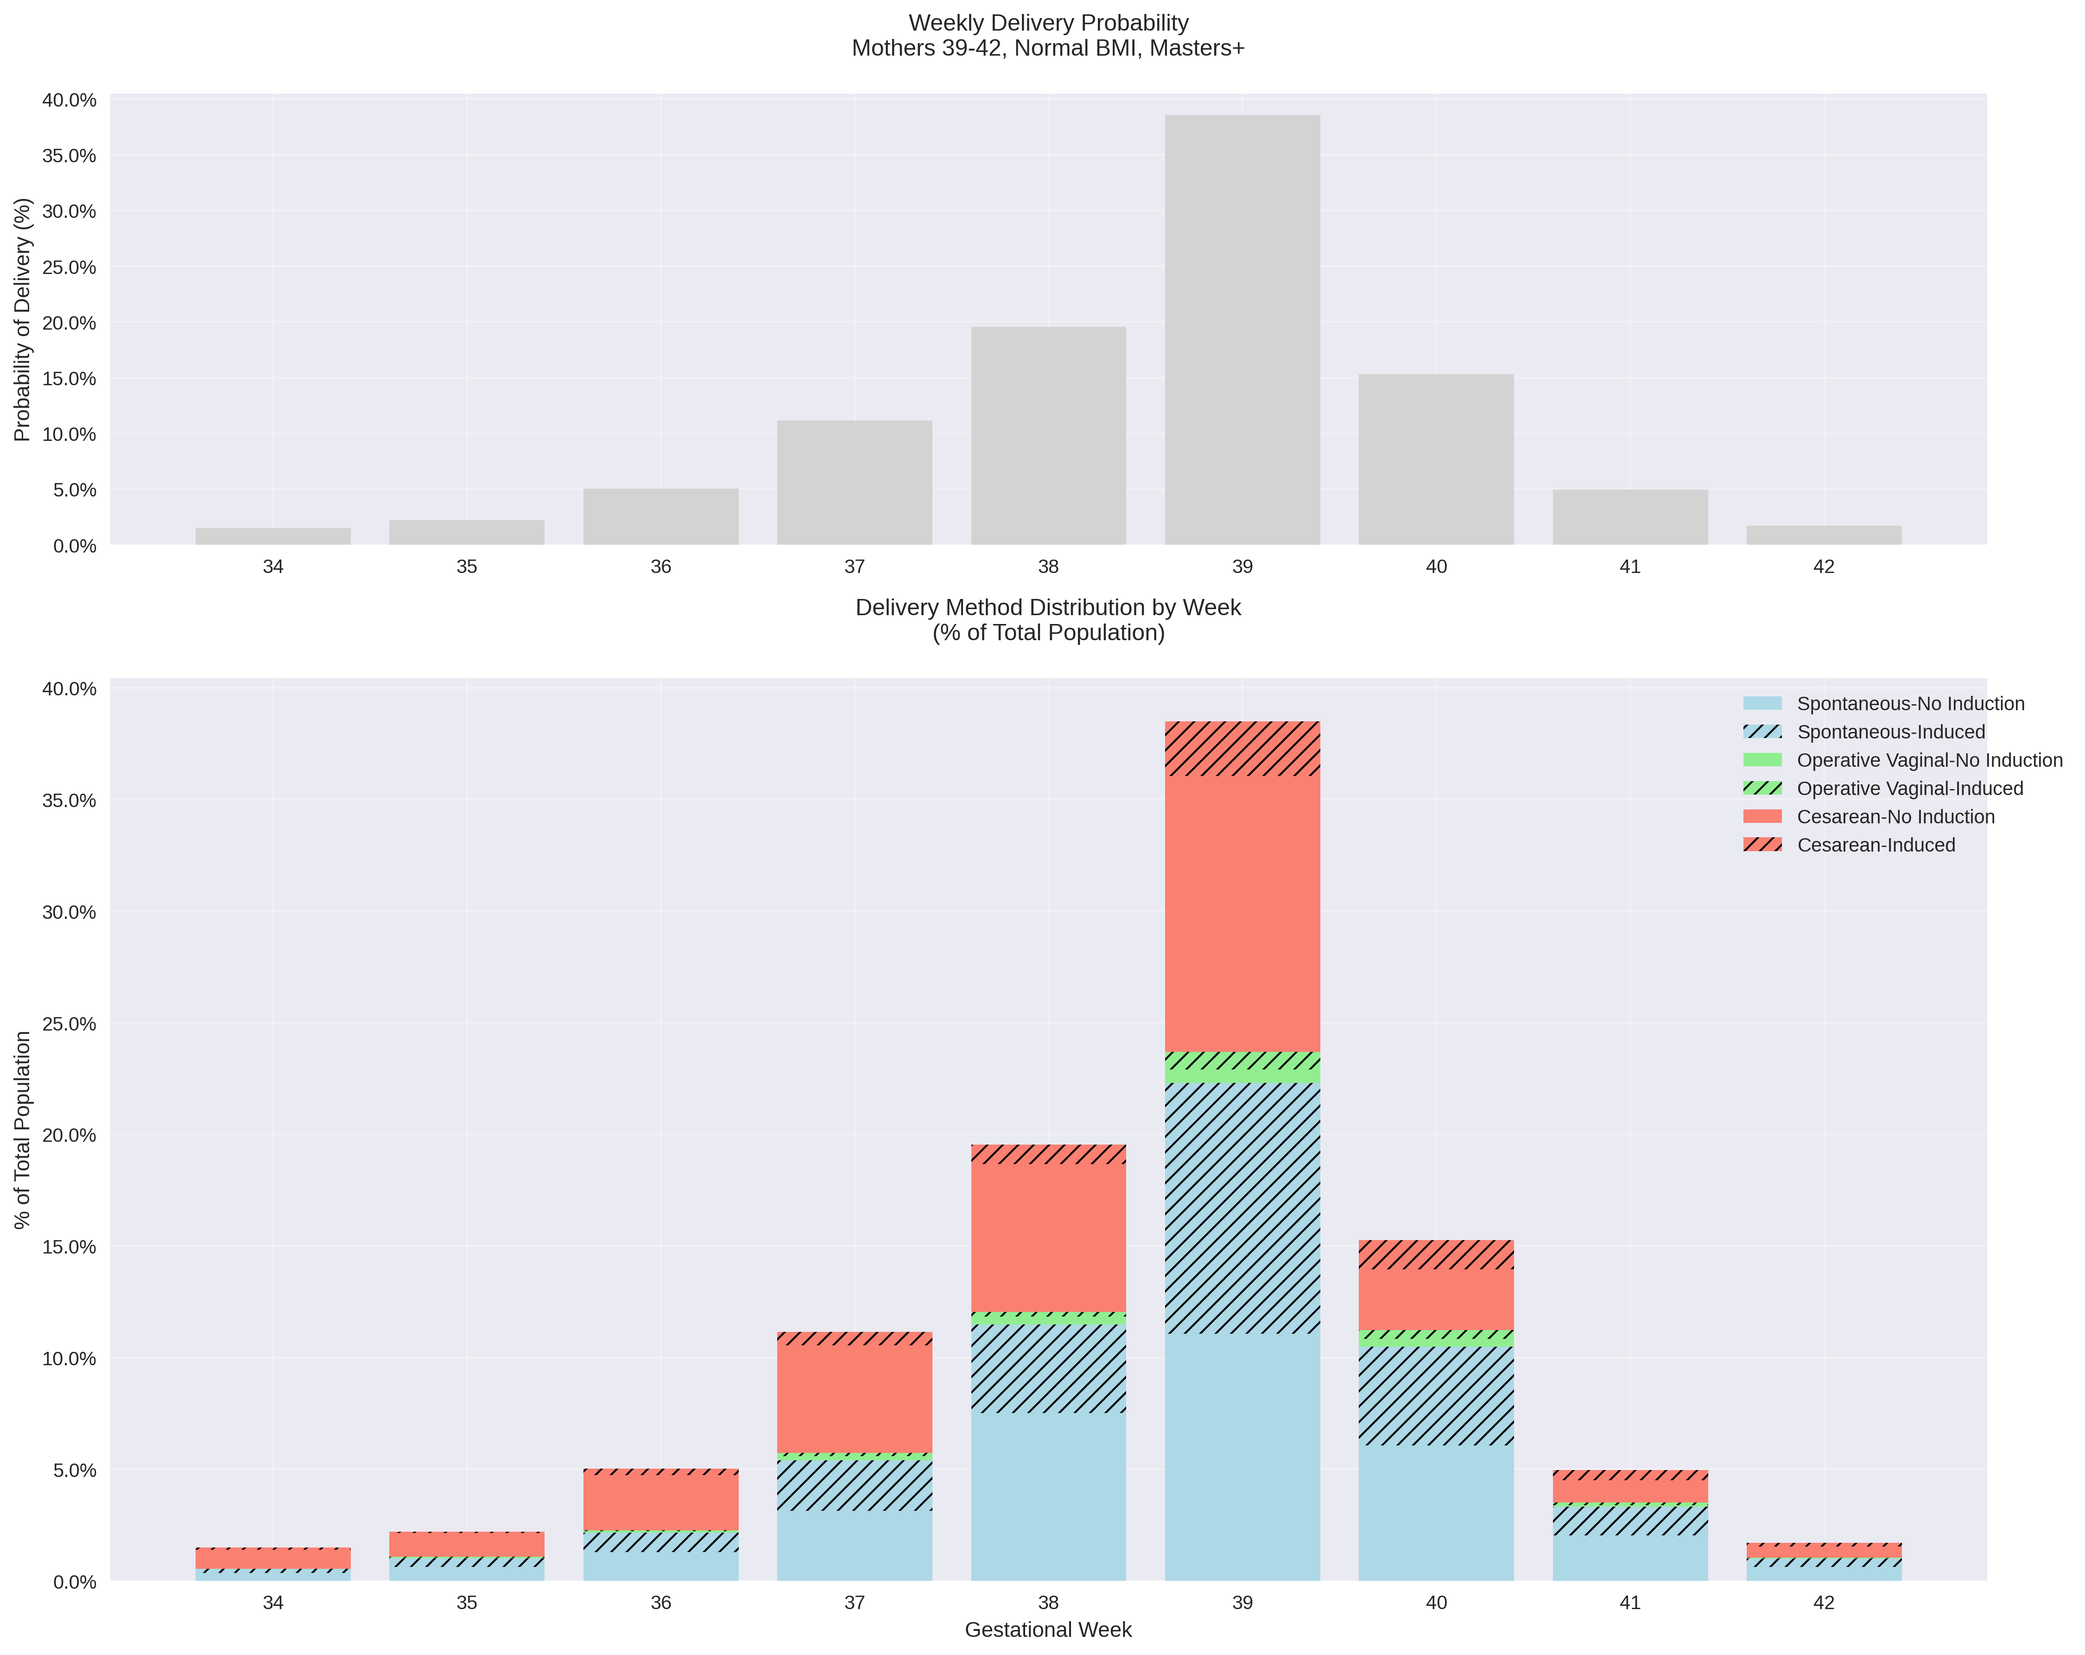
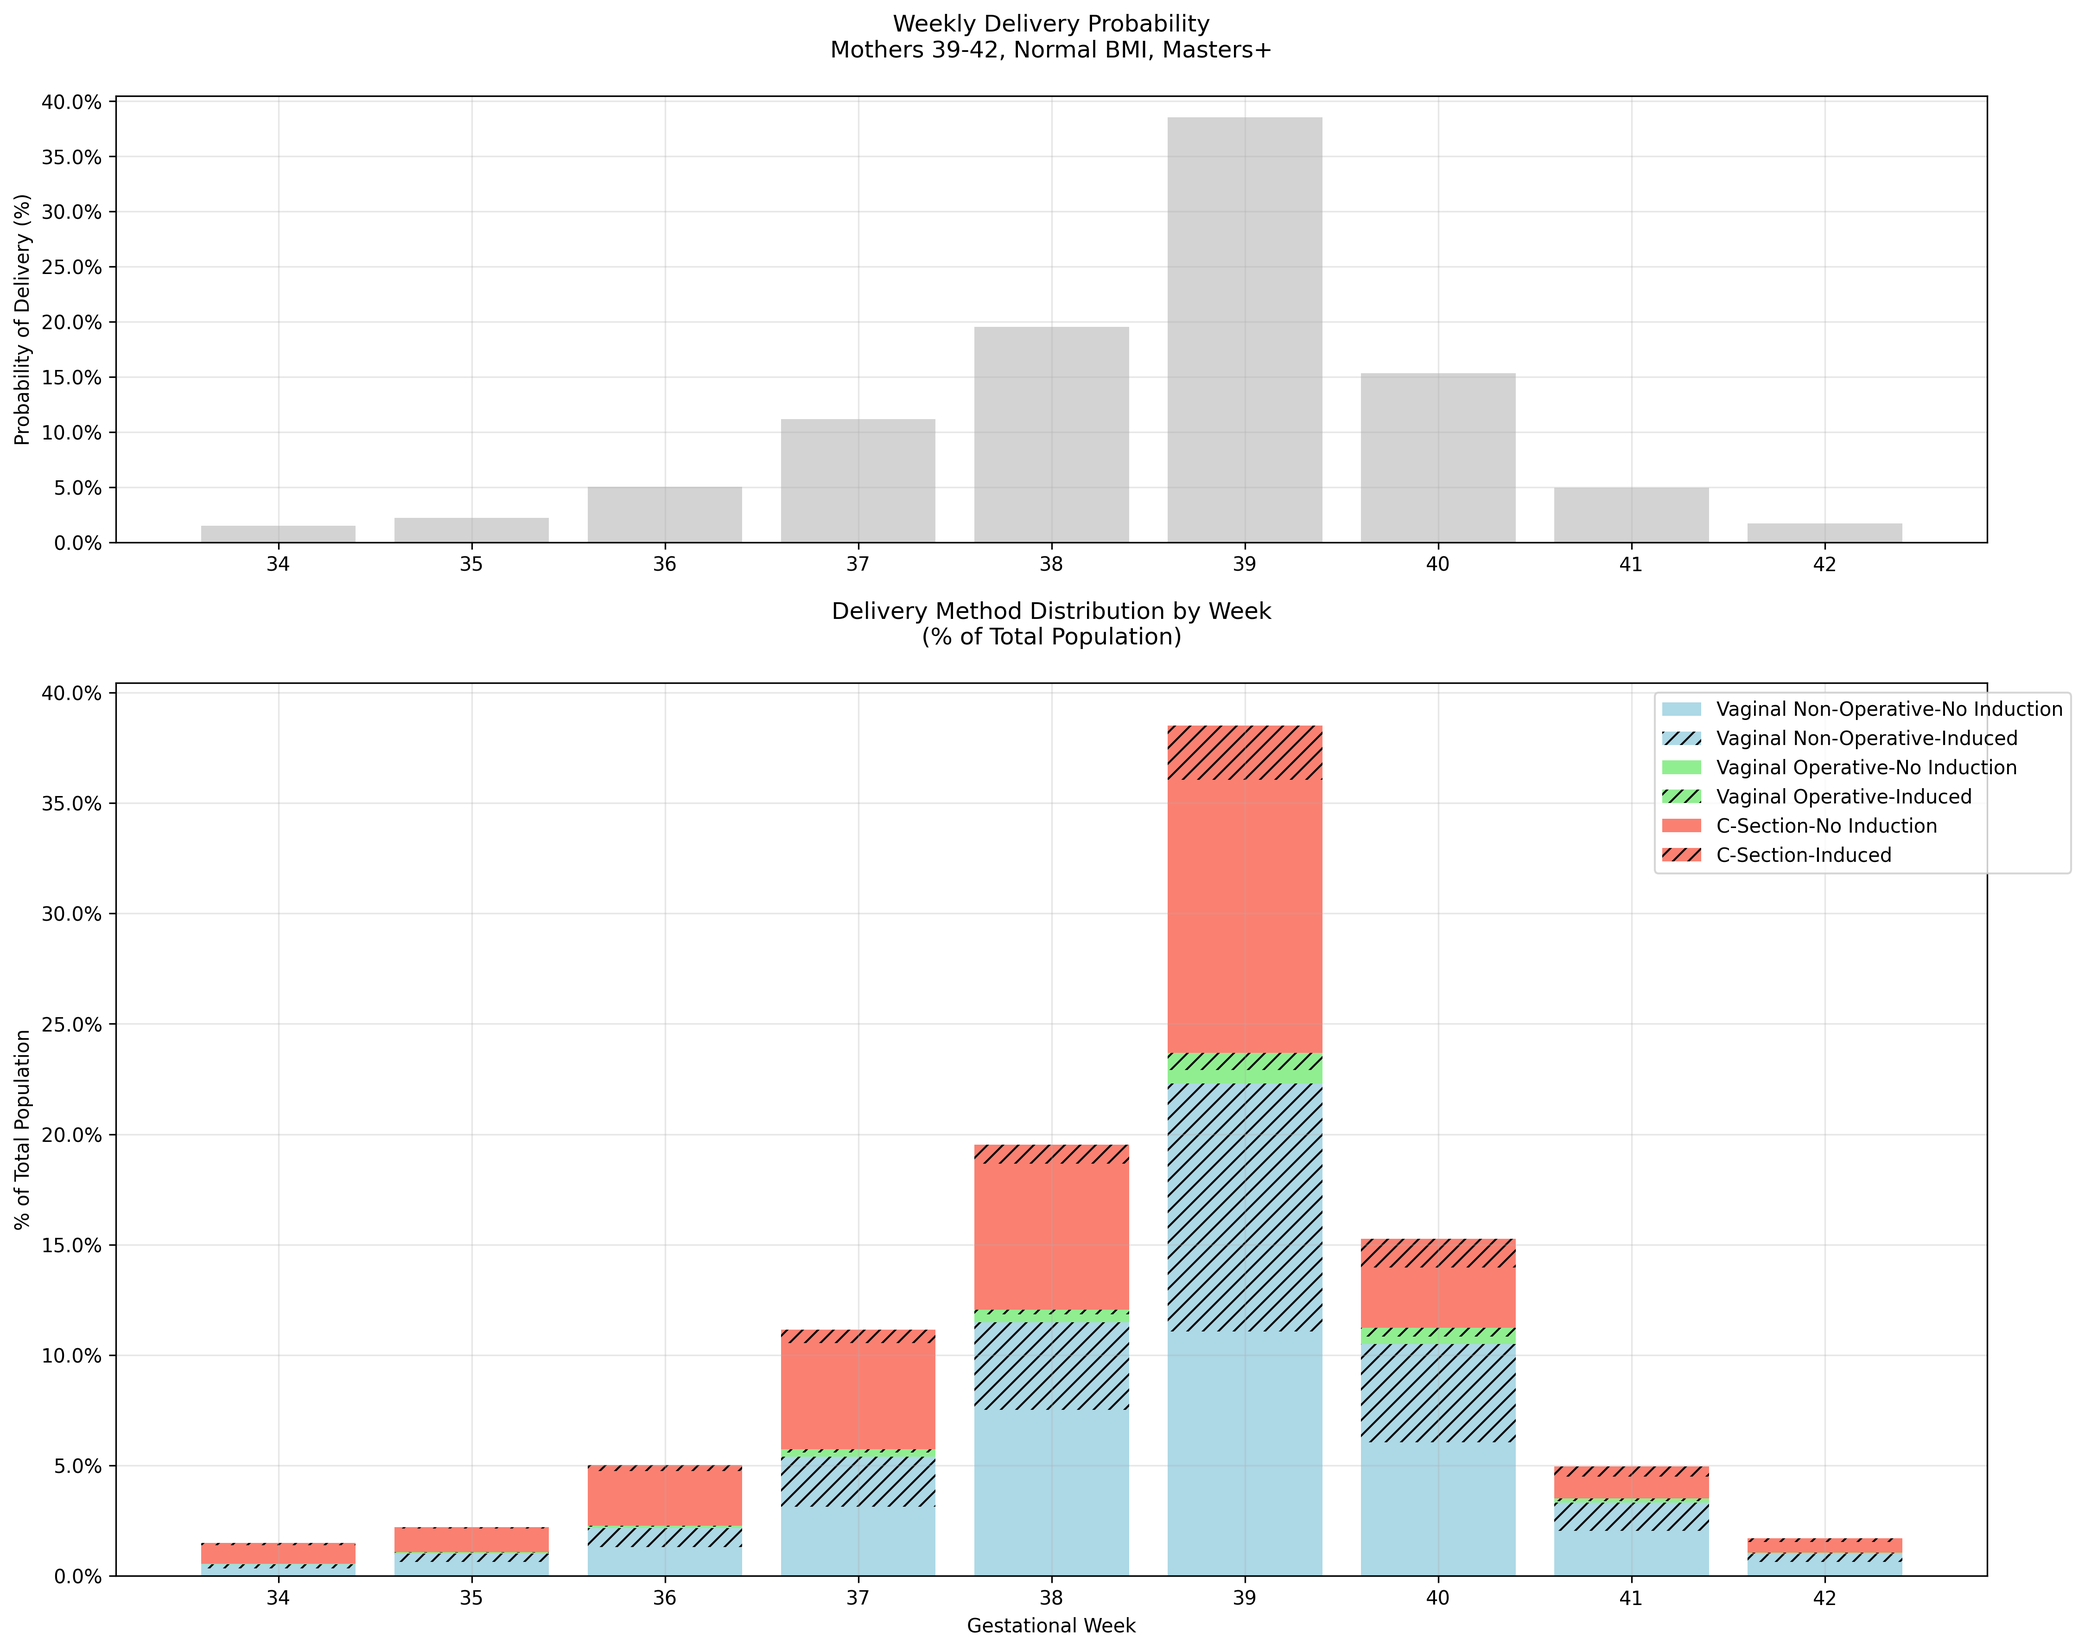
update and readme

diff --git a/analysis.py b/analysis.py
@@ -1,112 +1,29 @@
 import pandas as pd
 import numpy as np
 import matplotlib.pyplot as plt
-import seaborn as sns
 
 def read_natality_data(filepath):
-    """Read fixed-width natality data file focusing on BMI-related fields"""
+    """Read fixed-width natality data file focusing on relevant fields"""
     colspecs = [
         (74, 76),    # MAGER - Mother's age
-        (178, 179),  # LBO_REC - Live Birth Order
         (123, 124),  # MEDUC - Mother's Education 
         (286, 287),  # BMI_R (recoded BMI categories)
         (489, 491),  # COMBGEST - Combined Gestation
-        (504, 507),  # DBWT - Birth Weight in Grams
-        (224, 225),  # PRECARE - Month Prenatal Care Began
         (401, 402),  # ME_ROUT - Delivery Route
         (382, 383),  # LD_INDL - Induction
     ]
     
-    columns = ['mage', 'birth_order', 'education', 'bmi_r', 'gestation', 'birthweight', 'prenatal_care', 'me_rout', 'ld_indl']
+    columns = ['mage', 'education', 'bmi_r', 'gestation', 'me_rout', 'ld_indl']
     
-    print(f"Reading data from {filepath}...")
-    
-    df = pd.read_fwf(
+    return pd.read_fwf(
         filepath,
         colspecs=colspecs,
         names=columns,
-        dtype={
-            'mage': 'Int64',
-            'birth_order': 'Int64',
-            'education': 'Int64',
-            'bmi_r': 'Int64',
-            'gestation': 'Int64',
-            'birthweight': 'Int64',
-            'prenatal_care': 'Int64',
-            'me_rout': 'Int64',
-            'ld_indl': 'str'
-        }
+        dtype={col: 'Int64' if col != 'ld_indl' else 'str' for col in columns}
     )
-    
-    # Add debug printing
-    print("\nBMI Category Distribution:")
-    print("1 Underweight (<18.5):", len(df[df['bmi_r'] == 1]))
-    print("2 Normal (18.5-24.9):", len(df[df['bmi_r'] == 2]))
-    print("3 Overweight (25.0-29.9):", len(df[df['bmi_r'] == 3]))
-    print("4 Obesity I (30.0-34.9):", len(df[df['bmi_r'] == 4]))
-    print("5 Obesity II (35.0-39.9):", len(df[df['bmi_r'] == 5]))
-    print("6 Extreme Obesity III (≥40):", len(df[df['bmi_r'] == 6]))
-    print("9 Unknown:", len(df[df['bmi_r'] == 9]))
-    
-    return df
 
-def analyze_normal_bmi_births(df):
-    """Analyze births to mothers with normal BMI (category 2)"""
-    # Filter for normal BMI using the recoded category
-    normal_bmi_df = df[df['bmi_r'] == 2].copy()
-    
-    print("\nBasic Statistics:")
-    print(f"Total births: {len(df):,}")
-    print(f"Births to mothers with normal BMI: {len(normal_bmi_df):,}")
-    print(f"Percentage of births to mothers with normal BMI: {(len(normal_bmi_df)/len(df))*100:.1f}%")
-    
-    # No need for pd.cut since we're using pre-categorized BMI values
-    
-    return normal_bmi_df
-
-def plot_normal_bmi_analysis(df):
-    """Create visualizations for normal BMI analysis"""
-    # Set up the plotting style
-    plt.style.use('seaborn')
-    
-    # Create figure with multiple subplots
-    fig = plt.figure(figsize=(15, 10))
-    
-    # Age distribution
-    plt.subplot(2, 2, 1)
-    sns.histplot(data=df, x='mage', bins=30)
-    plt.title('Age Distribution of Mothers with Normal BMI')
-    plt.xlabel('Maternal Age')
-    plt.ylabel('Count')
-    
-    # Education distribution
-    plt.subplot(2, 2, 2)
-    education_counts = df['education'].value_counts()
-    education_counts.plot(kind='bar')
-    plt.title('Education Distribution')
-    plt.xticks(rotation=45, ha='right')
-    plt.tight_layout()
-    
-    # Birth weight distribution
-    plt.subplot(2, 2, 3)
-    sns.histplot(data=df, x='birthweight', bins=30)
-    plt.title('Birth Weight Distribution')
-    plt.xlabel('Birth Weight (grams)')
-    plt.ylabel('Count')
-    
-    # Gestational age distribution
-    plt.subplot(2, 2, 4)
-    sns.histplot(data=df, x='gestation', bins=30)
-    plt.title('Gestational Age Distribution')
-    plt.xlabel('Gestational Age (weeks)')
-    plt.ylabel('Count')
-    
-    plt.tight_layout()
-    plt.savefig('normal_bmi_analysis.png', dpi=300, bbox_inches='tight')
-    plt.close()
-
-def analyze_advanced_degree_normal_bmi(df):
-    # Filter for target population
+def analyze_and_plot_deliveries(df):
+    """Analyze and visualize delivery methods by week"""
     filtered_df = df[
         (df['mage'].between(39, 42)) &
         (df['bmi_r'] == 2) &
@@ -115,79 +32,55 @@ def analyze_advanced_degree_normal_bmi(df):
     ].copy()
     
     total_population = len(filtered_df)
-    print("\nFiltering summary:")
-    print(f"Total population (34+ weeks): {total_population:,}")
+    print(f"\nTotal population (34+ weeks): {total_population:,}")
     
-    # Create delivery categories with updated labels
+    # Define delivery categories for both analysis and plotting
     delivery_cats = {
-        'Vaginal Non-Operative-No Induction': (filtered_df['me_rout'] == 1) & (filtered_df['ld_indl'] == 'N'),
-        'Vaginal Non-Operative-Induced': (filtered_df['me_rout'] == 1) & (filtered_df['ld_indl'] == 'Y'),
-        'Vaginal Operative-No Induction': (filtered_df['me_rout'].isin([2,3])) & (filtered_df['ld_indl'] == 'N'),
-        'Vaginal Operative-Induced': (filtered_df['me_rout'].isin([2,3])) & (filtered_df['ld_indl'] == 'Y'),
-        'C-Section-No Induction': (filtered_df['me_rout'] == 4) & (filtered_df['ld_indl'] == 'N'),
-        'C-Section-Induced': (filtered_df['me_rout'] == 4) & (filtered_df['ld_indl'] == 'Y')
+        'Vaginal Non-Operative-No Induction': ['lightblue', '', (1, 'N')],
+        'Vaginal Non-Operative-Induced': ['lightblue', '///', (1, 'Y')],
+        'Vaginal Operative-No Induction': ['lightgreen', '', ([2,3], 'N')],
+        'Vaginal Operative-Induced': ['lightgreen', '///', ([2,3], 'Y')],
+        'C-Section-No Induction': ['salmon', '', (4, 'N')],
+        'C-Section-Induced': ['salmon', '///', (4, 'Y')]
     }
     
-    # Calculate weekly distributions
-    weekly_stats = {}
+    # Print weekly statistics
+    print("\nWeekly Delivery Statistics:")
     for week in range(34, 43):
         week_births = filtered_df[filtered_df['gestation'] == week]
         week_total = len(week_births)
-        
-        stats = {}
-        for cat_name, cat_filter in delivery_cats.items():
-            count = len(week_births[cat_filter])
-            prob = (count / total_population) * 100  # Probability relative to total population
-            stats[cat_name] = {'count': count, 'probability': prob}
-        weekly_stats[week] = stats
-    
-    # Print detailed statistics
-    print("\nWeekly Delivery Probabilities:")
-    for week, stats in weekly_stats.items():
-        week_total = sum(s['count'] for s in stats.values())
         print(f"\nWeek {week} (Births: {week_total}, {(week_total/total_population)*100:.1f}% of population)")
-        for cat, values in stats.items():
-            print(f"  {cat}: {values['count']} ({values['probability']:.1f}% of population)")
+        
+        for label, (_, _, (route, induction)) in delivery_cats.items():
+            if isinstance(route, list):
+                count = len(week_births[
+                    (week_births['me_rout'].isin(route)) & 
+                    (week_births['ld_indl'] == induction)
+                ])
+            else:
+                count = len(week_births[
+                    (week_births['me_rout'] == route) & 
+                    (week_births['ld_indl'] == induction)
+                ])
+            prob = (count / total_population) * 100
+            print(f"  {label}: {count} ({prob:.1f}% of population)")
     
-    return filtered_df
-
-def plot_weekly_deliveries_with_methods(df):
-    """Create comprehensive weekly delivery visualization with method breakdowns"""
-    filtered_df = df[
-        (df['mage'].between(39, 42)) &
-        (df['bmi_r'] == 2) &
-        (df['education'].isin([7, 8])) &
-        (df['gestation'].between(34, 42))
-    ].copy()
-    
-    total_population = len(filtered_df)
-    
-    # Set up the plot with gridspec
+    # Create visualization
     fig = plt.figure(figsize=(15, 12))
     gs = fig.add_gridspec(2, 1, height_ratios=[1, 2])
     ax1 = fig.add_subplot(gs[0])
     ax2 = fig.add_subplot(gs[1])
     
-    # Top plot remains the same
+    # Top plot: Overall weekly probabilities
     weekly_counts = filtered_df['gestation'].value_counts().sort_index()
     weekly_percentages = (weekly_counts / total_population) * 100
     ax1.bar(weekly_counts.index, weekly_percentages, color='lightgray')
     ax1.set_title('Weekly Delivery Probability\nMothers 39-42, Normal BMI, Masters+', pad=20)
     ax1.set_ylabel('Probability of Delivery (%)')
     
-    # Bottom plot: New color/hatch scheme
-    delivery_cats = {
-        'Spontaneous-No Induction': ['lightblue', '', (1, 'N')],
-        'Spontaneous-Induced': ['lightblue', '///', (1, 'Y')],
-        'Operative Vaginal-No Induction': ['lightgreen', '', ([2,3], 'N')],
-        'Operative Vaginal-Induced': ['lightgreen', '///', ([2,3], 'Y')],
-        'Cesarean-No Induction': ['salmon', '', (4, 'N')],
-        'Cesarean-Induced': ['salmon', '///', (4, 'Y')]
-    }
-    
+    # Bottom plot: Delivery methods
     bottom = np.zeros(len(range(34, 43)))
     
-    # Calculate and plot probabilities for each delivery method
     for label, (color, hatch, (route, induction)) in delivery_cats.items():
         weekly_probs = []
         for week in range(34, 43):
@@ -214,11 +107,9 @@ def plot_weekly_deliveries_with_methods(df):
     ax2.set_ylabel('% of Total Population')
     ax2.legend(bbox_to_anchor=(1.05, 1))
     
-    # Set y-axis limit to actual maximum percentage
     max_total_pct = max(bottom)
     ax2.set_ylim(0, max_total_pct * 1.05)
     
-    # Formatting
     for ax in [ax1, ax2]:
         ax.set_xticks(range(34, 43))
         ax.grid(True, alpha=0.3)
@@ -228,17 +119,8 @@ def plot_weekly_deliveries_with_methods(df):
     return fig
 
 def main():
-    # Read and analyze data
-    filepath = "Nat2023us.txt"  # Update with actual filepath
-    df = read_natality_data(filepath)
-    
-    # Perform analysis
-    normal_bmi_df = analyze_normal_bmi_births(df)
-    advanced_degree_normal_bmi_df = analyze_advanced_degree_normal_bmi(normal_bmi_df)
-    
-    # Create visualizations
-    plot_normal_bmi_analysis(normal_bmi_df)
-    fig = plot_weekly_deliveries_with_methods(df)
+    df = read_natality_data("Nat2023us.txt")
+    fig = analyze_and_plot_deliveries(df)
     fig.savefig('delivery_analysis.png', dpi=300, bbox_inches='tight')
     plt.close()
 

diff --git a/README.md b/README.md
@@ -1,4 +1,23 @@
-# Weekly Delivery Probabilities:
+# Birth Delivery Analysis
+
+This code analyzes delivery methods and timing for births to mothers aged 39-42 with normal BMI and masters+ education.
+
+## Data Preparation
+
+1. Download the 2023 Natality Public Use File:
+   - Visit the CDC Wonder website
+   - Download `nat2023us.zip`
+
+2. Prepare the data file:
+   ```bash
+   unzip nat2023us.zip
+   mv "VS23NATL.DETL.PUB" Nat2023us.txt
+   ```
+
+## Sample Results
+
+```
+Weekly Delivery Statistics:
 
 Week 34 (Births: 300, 1.5% of population)
   Vaginal Non-Operative-No Induction: 70 (0.3% of population)
@@ -16,7 +35,7 @@ Week 35 (Births: 441, 2.2% of population)
   C-Section-No Induction: 212 (1.1% of population)
   C-Section-Induced: 12 (0.1% of population)
 
-Week 36 (Births: 1004, 5.0% of population)
+Week 36 (Births: 1005, 5.0% of population)
   Vaginal Non-Operative-No Induction: 260 (1.3% of population)
   Vaginal Non-Operative-Induced: 173 (0.9% of population)
   Vaginal Operative-No Induction: 13 (0.1% of population)
@@ -24,7 +43,7 @@ Week 36 (Births: 1004, 5.0% of population)
   C-Section-No Induction: 494 (2.5% of population)
   C-Section-Induced: 55 (0.3% of population)
 
-Week 37 (Births: 2231, 11.2% of population)
+Week 37 (Births: 2232, 11.2% of population)
   Vaginal Non-Operative-No Induction: 628 (3.1% of population)
   Vaginal Non-Operative-Induced: 452 (2.3% of population)
   Vaginal Operative-No Induction: 40 (0.2% of population)
@@ -32,7 +51,7 @@ Week 37 (Births: 2231, 11.2% of population)
   C-Section-No Induction: 964 (4.8% of population)
   C-Section-Induced: 120 (0.6% of population)
 
-Week 38 (Births: 3908, 19.5% of population)
+Week 38 (Births: 3910, 19.5% of population)
   Vaginal Non-Operative-No Induction: 1505 (7.5% of population)
   Vaginal Non-Operative-Induced: 792 (4.0% of population)
   Vaginal Operative-No Induction: 71 (0.4% of population)
@@ -40,7 +59,7 @@ Week 38 (Births: 3908, 19.5% of population)
   C-Section-No Induction: 1323 (6.6% of population)
   C-Section-Induced: 174 (0.9% of population)
 
-Week 39 (Births: 7703, 38.5% of population)
+Week 39 (Births: 7715, 38.6% of population)
   Vaginal Non-Operative-No Induction: 2214 (11.1% of population)
   Vaginal Non-Operative-Induced: 2249 (11.2% of population)
   Vaginal Operative-No Induction: 118 (0.6% of population)
@@ -48,7 +67,7 @@ Week 39 (Births: 7703, 38.5% of population)
   C-Section-No Induction: 2473 (12.4% of population)
   C-Section-Induced: 491 (2.5% of population)
 
-Week 40 (Births: 3055, 15.3% of population)
+Week 40 (Births: 3067, 15.3% of population)
   Vaginal Non-Operative-No Induction: 1212 (6.1% of population)
   Vaginal Non-Operative-Induced: 888 (4.4% of population)
   Vaginal Operative-No Induction: 68 (0.3% of population)
@@ -71,3 +90,16 @@ Week 42 (Births: 342, 1.7% of population)
   Vaginal Operative-Induced: 5 (0.0% of population)
   C-Section-No Induction: 98 (0.5% of population)
   C-Section-Induced: 35 (0.2% of population)
+```
+
+## Data Source
+
+Data from the 2023 Natality Public Use File, National Center for Health Statistics. The file contains birth certificate data for all US births in 2023.
+
+Key fields used:
+- Mother's age (MAGER)
+- Mother's Education (MEDUC)
+- BMI Category (BMI_R)
+- Gestation (COMBGEST)
+- Delivery Route (ME_ROUT)
+- Induction Status (LD_INDL)
